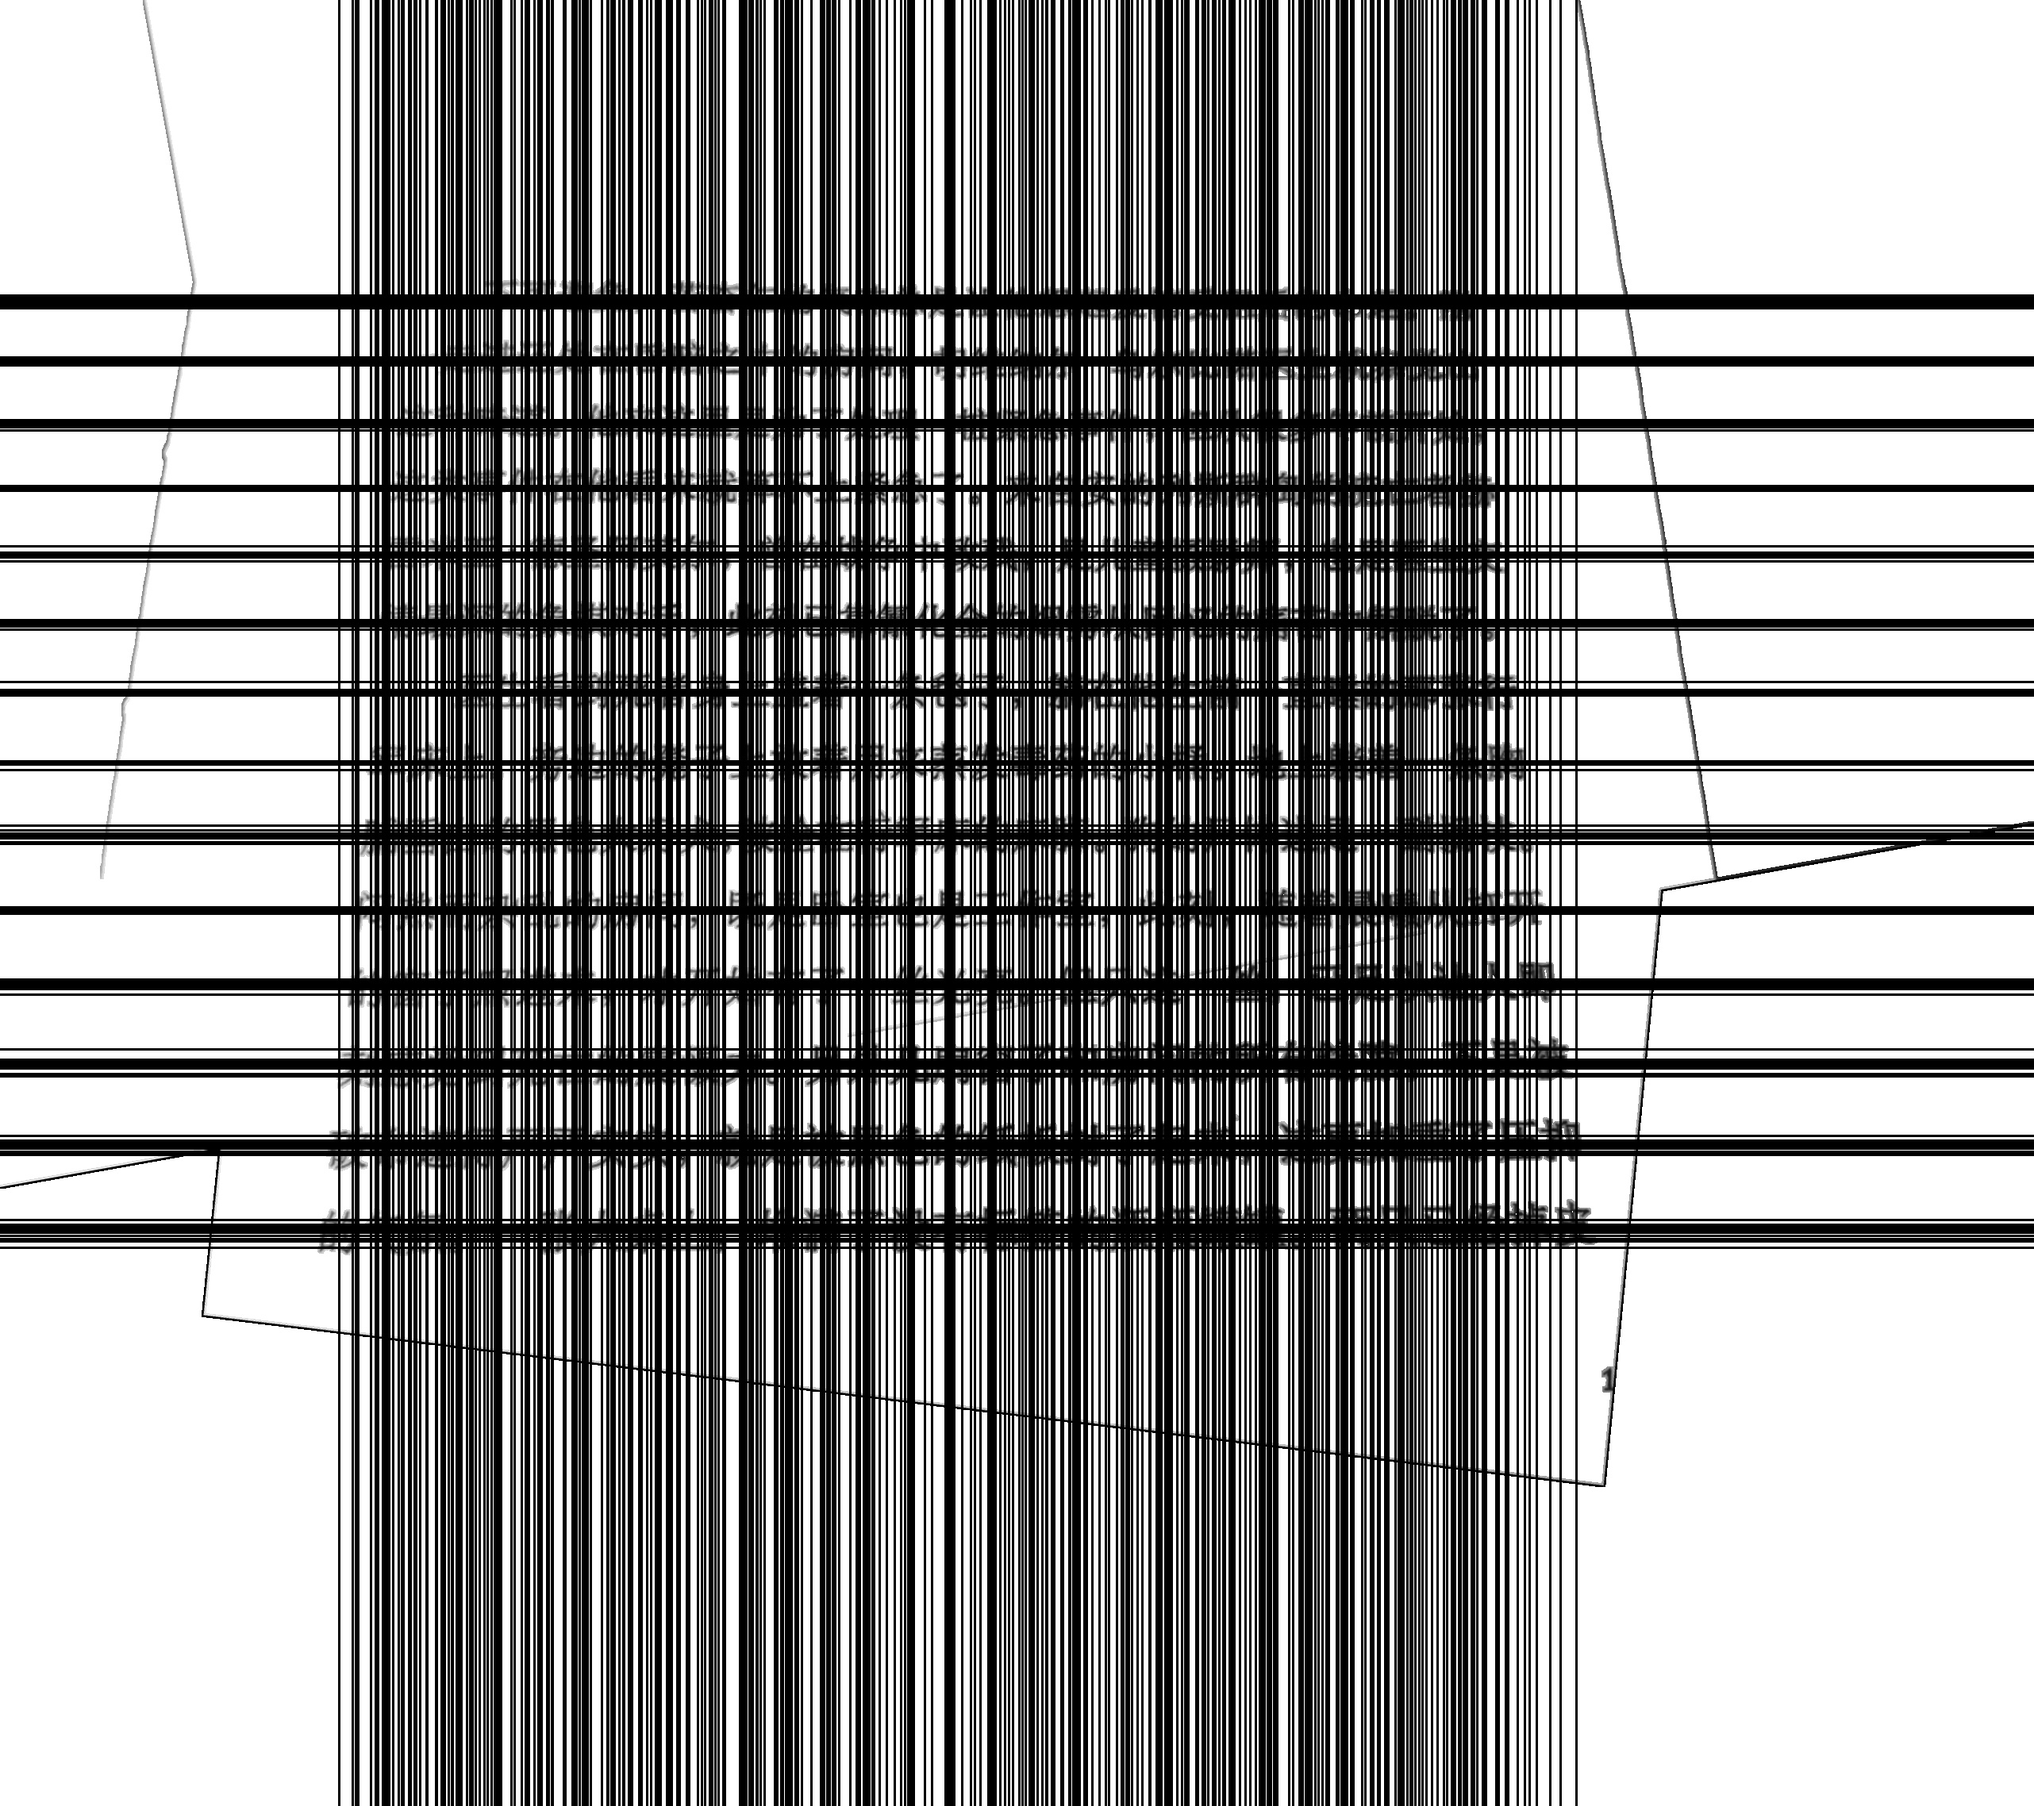
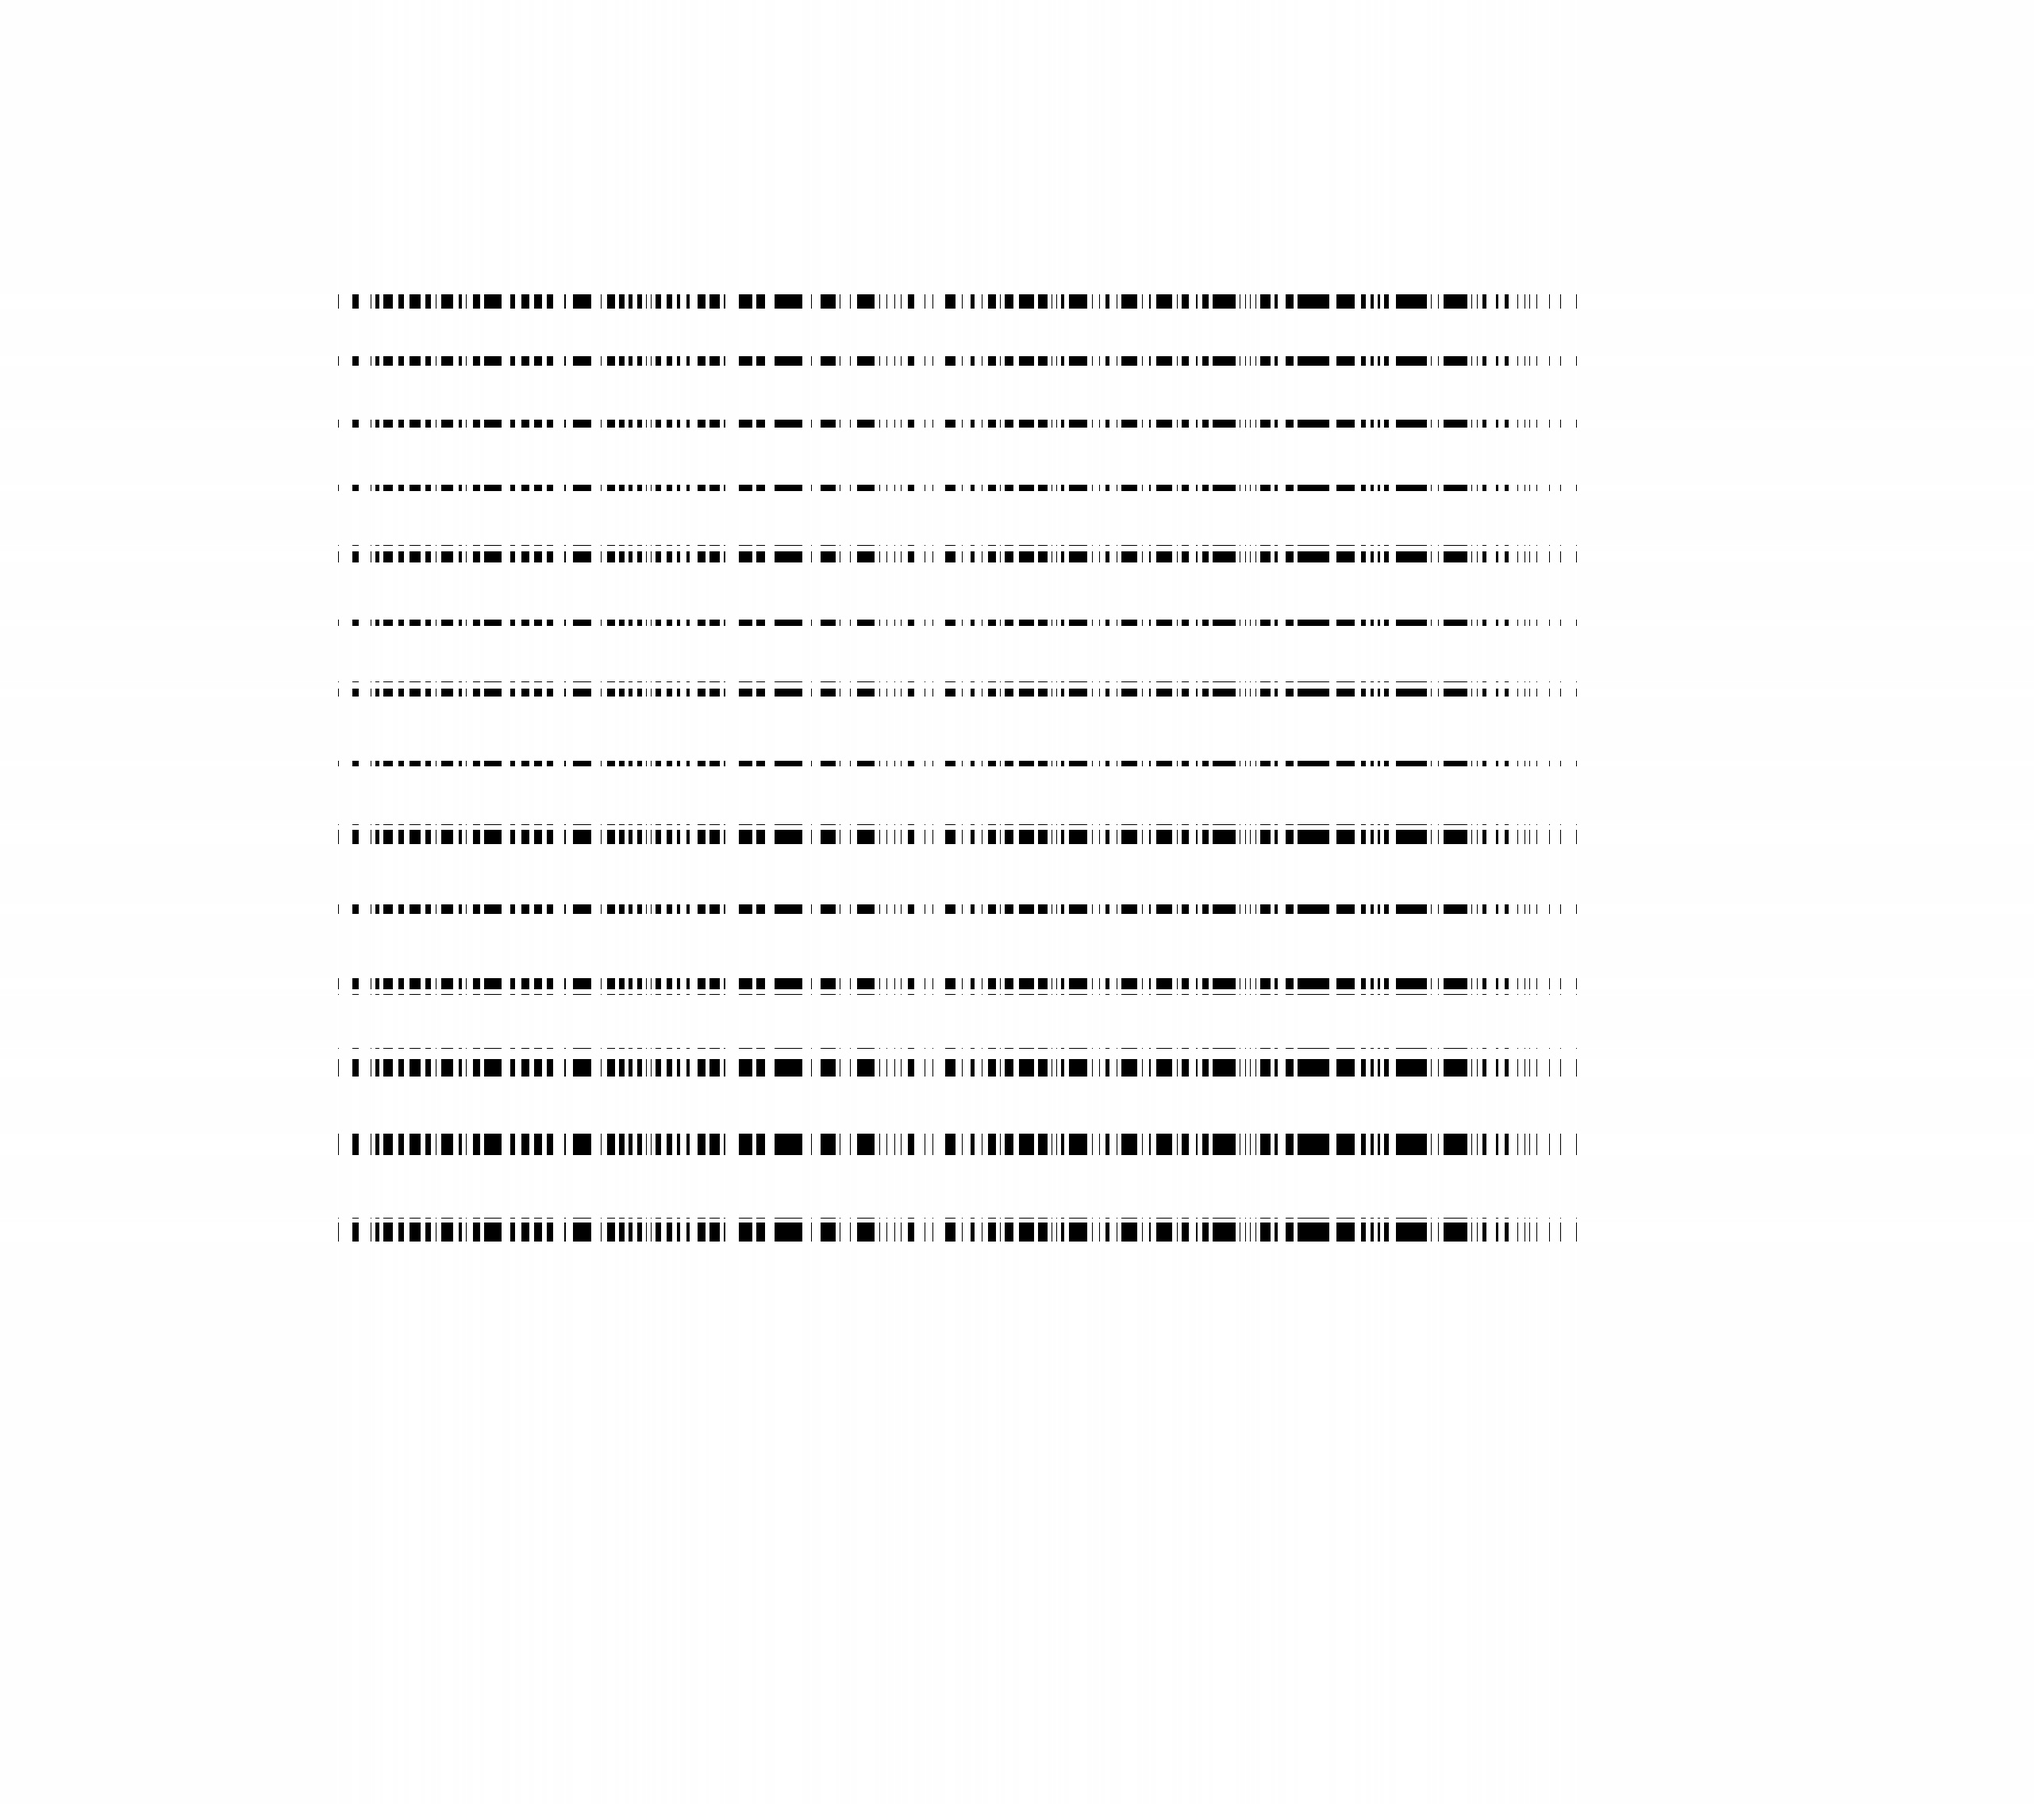
update text_find.py

diff --git a/text_find.py b/text_find.py
@@ -106,6 +106,15 @@ def non_max_suppress(boxes, threshold=0.8):
         return boxes[pick].astype("int")
 
 
+def corner_detect(img):
+    img_new = np.zeros_like(img)
+    corners = cv2.goodFeaturesToTrack(img, 10000, 0.01, 10)
+    for corner in corners:
+        x, y = corner.ravel()
+        cv2.circle(img_new, (x, y), 3, 255, -1)
+    return img_new
+
+
 def detect(img_gray, norm=1.2):
     # 自适应直方图均衡
     clahe = cv2.createCLAHE(clipLimit=2.0, tileGridSize=(5, 5))
@@ -136,14 +145,21 @@ def detect(img_gray, norm=1.2):
     pts[:, 0] = (boxes[:, 0] + boxes[:, 2]) / 2
     pts[:, 1] = (boxes[:, 1] + boxes[:, 3]) / 2
     pts = pts.astype(np.int)
+
+    # get the text roi
+    img_new_1 = np.ones_like(img_gray) * 255
+    img_new_2 = np.ones_like(img_gray) * 255
     for pt in pts:
-        # cv2.circle(img_gray, tuple(pt.astype(np.int).tolist()), 5, (0, 0, 0), 3)
-        cv2.line(img_gray, (pt[0], 0), (pt[0], img_h), (0, 0, 0), 2)
-        cv2.line(img_gray, (0, pt[1]), (img_w, pt[1]), (0, 0, 0), 2)
+        cv2.line(img_new_1, (0, pt[1]), (img_w, pt[1]), 0, 1)
+        cv2.line(img_new_2, (pt[0], 0), (pt[0], img_h), 0, 1)
+    img_new_1 = cv2.morphologyEx(img_new_1, cv2.MORPH_OPEN, np.ones((5, 5)))
+    img_new_2 = cv2.morphologyEx(img_new_2, cv2.MORPH_OPEN, np.ones((5, 5)))
+    img_new = img_new_1 + img_new_2
+
     # 利用霍夫变换查找点集中的直线，返回角度单位为弧度
     # lines = hough_lines_point_set(pts, min_theta=0., max_theta=np.pi/6)
     # print(lines)
-    return img_gray
+    return img_new
 
 
 if __name__ == '__main__':
